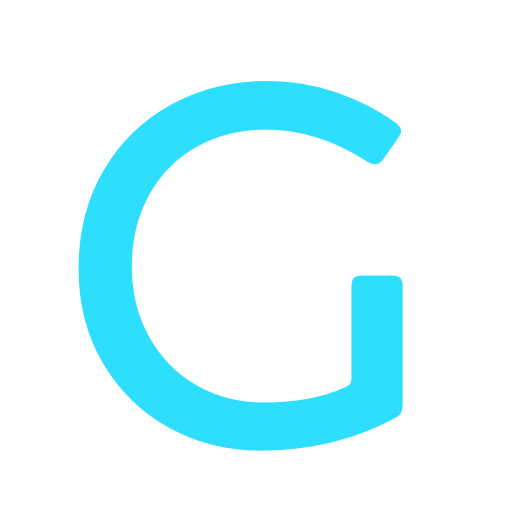
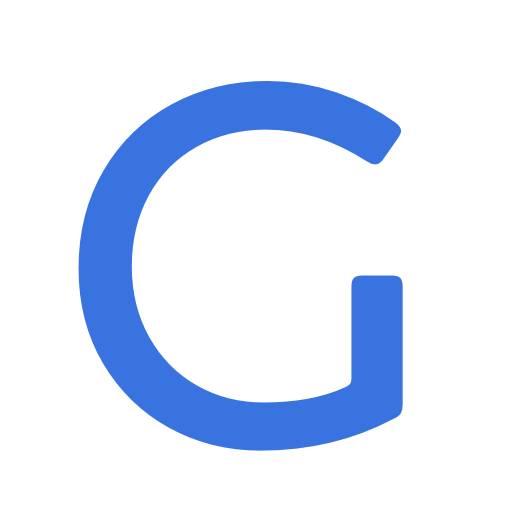
try different colour

Changed region(s): [[0.125, 0.1562, 0.8125, 0.9062]]

diff --git a/pkg/roles/api/ui/api.html b/pkg/roles/api/ui/api.html
@@ -13,7 +13,7 @@
             spec-url="/api/v1/openapi.json"
             render-style="read"
             default-schema-tab="schema"
-            primary-color="#2ddffd"
+            primary-color="#3873e0"
             nav-bg-color="#212427"
             use-path-in-nav-bar="true"
             nav-item-spacing="relaxed"

diff --git a/web/src/elements/styles/authentik.css b/web/src/elements/styles/authentik.css
@@ -1,5 +1,5 @@
 :root {
-    --ak-accent: #2ddffd;
+    --ak-accent: #3873e0;
 
     --ak-dark-foreground: #fafafa;
     --ak-dark-foreground-darker: #bebebe;

diff --git a/docs/assets/scss/_variables_project.scss b/docs/assets/scss/_variables_project.scss
@@ -1,2 +1,2 @@
 $primary: #000;
-$secondary: #2ddffd;
+$secondary: #3873e0;
